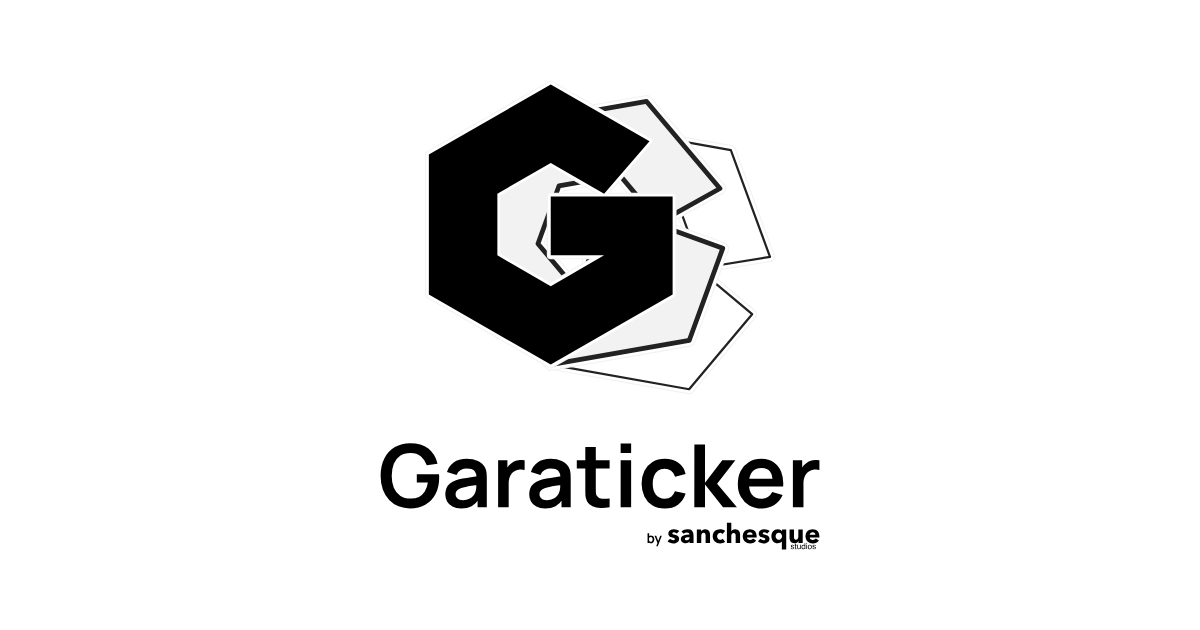
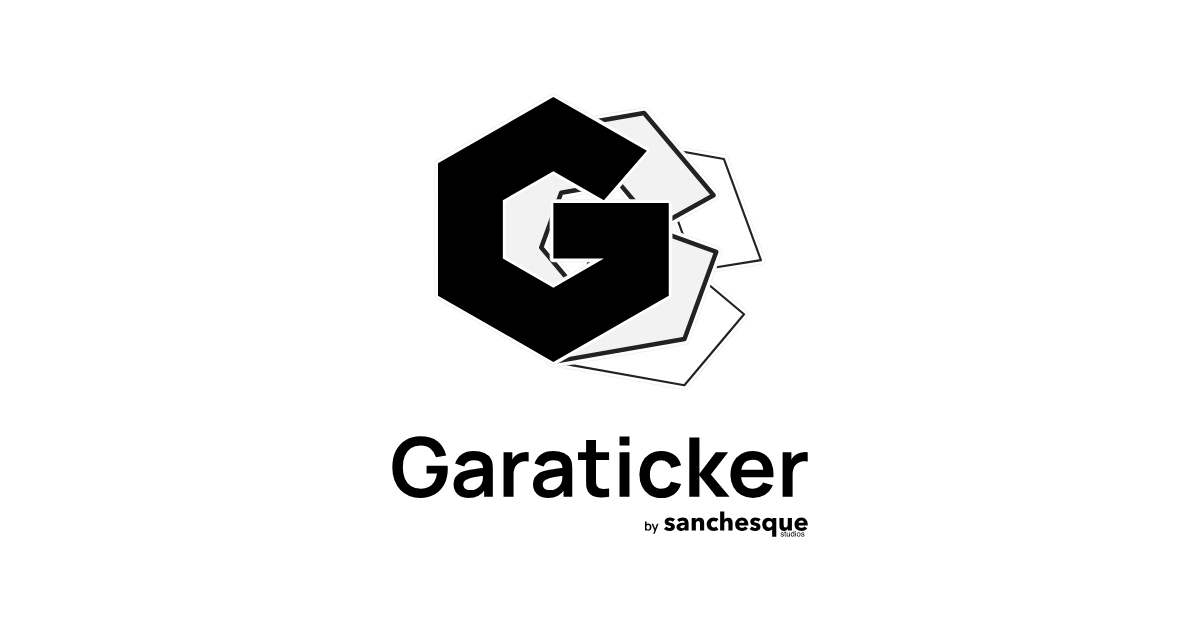
Website: publish pipeline, post-deploy live-check Action, brand-sync check, SEO tooling
Squash of 747066b (og-image sync), 462673f (publish.sh, post-deploy.yml,
C-15) and the SEO subsession docs + scripts/seo_weekly.sh, per Alex order
2026-11-24.

Generated by Mistral Vibe.

diff --git a/scripts/check_site.py b/scripts/check_site.py
@@ -1,8 +1,10 @@
 #!/usr/bin/env python3
 """Pre-push checks for the site: no em dashes, no broken internal links,
 every Spanish page has its /en/ twin, every page is in the sitemap, plus the
-SEO checks C-01..C-14 (errors) and W-01..W-04 (warnings) proposed in
-docs/seo/checklist.md (24-nov-2026, approved by Alex the same day).
+SEO checks C-01..C-15 (errors) and W-01..W-04 (warnings) proposed in
+docs/seo/checklist.md (24-nov-2026, approved by Alex the same day). C-15
+checks that the vendored brand copies are in sync with brand/ (skipped
+when brand/ is not next to the repo, e.g. in CI).
 
     python3 scripts/check_site.py [dir]     local checks (default: the repo;
                                             run on _site/ after build_site.sh)
@@ -343,6 +345,23 @@ for p in own_pages():
         last = target.rstrip("/").rsplit("/", 1)[-1]
         if target.endswith("index.html") or ("." not in last and not target.endswith("/")):
             err(f"C-14 {rel}: link to {target} (H-B1: use the folder with trailing slash)")
+
+# C-15 vendored brand copies (styles/brand, img/brand, fonts) in sync with
+# brand/ (decision 0004). Only when brand/ exists next to the repo; CI
+# checks out this repo alone and skips it. Running sync_brand.sh refreshes
+# the copies, so any diff against HEAD means they were stale.
+if SITE == REPO and (REPO.parent / "brand").is_dir():
+    try:
+        subprocess.run(["sh", str(REPO / "scripts" / "sync_brand.sh")],
+                       check=True, capture_output=True, timeout=60)
+        out = subprocess.run(["git", "-C", str(REPO), "status", "--porcelain", "--",
+                              "styles/brand", "img/brand", "fonts"],
+                             capture_output=True, text=True, timeout=10)
+        if out.returncode == 0 and out.stdout.strip():
+            err("C-15: styles/brand, img/brand or fonts/ differ from brand/ after "
+                "scripts/sync_brand.sh; commit the refreshed copies (decision 0004)")
+    except Exception as e:
+        err(f"C-15: could not verify the brand copies ({e})")
 
 # W-02 page weight: own HTML under 100 KB; images under 300 KB except og-image
 for p in own_pages():

diff --git a/HANDOFF.md b/HANDOFF.md
@@ -78,13 +78,22 @@
   de la ayuda 200, home con GitHub en `sameAs`, `lastmod` 2026-11-24
   en el sitemap y CSP real activa. Subsesión «Sanchesque.com · SEO»
   avisada con el hash `456ac08`.
+- 24-nov · Vibe, orden de Alex vía Gestión (local, sin push):
+  `scripts/publish.sh` (check_site del repo con C-15, build, check de
+  `_site`, push, espera del run «Push on master» del commit vía `gh`,
+  luego `check_site.py --live`; salida archivada en `logs/`, gitignored
+  y no publicada); Action `.github/workflows/post-deploy.yml` que corre
+  `check_site.py --live` tras «Push on master» en master (y a mano con
+  workflow_dispatch) y falla si L-01..L-05 no pasan; C-15 en
+  `check_site.py` (copias de brand al día con `brand/`, solo en local);
+  sección «Vigilancias con fecha» en `admin/web-backlog.md`.
 - 24-nov · Vibe, a petición de Marca (brand `55764e4`, planes P-1 a P-8
   aprobados): `sync_brand.sh` copia ya los avatares
   `logos/*/social/*-avatar-1080.png` a `img/brand/*/social/` y los PNG
   de email `tabaibi-horizontal-color-1000.png` (firma P-1 de tabaibi@)
   y `garaticker-horizontal-black-1000.png` (boletín P-6) a
-  `img/brand/email/`. Hecho en local; `check_site.py` ok (25 páginas).
-  Sin subir: falta el sí de Alex para publicar.
+  `img/brand/email/`. Publicado por Claude el 24-nov en `9e823ec`
+  (squash con el sí de Alex vía Gestión); comprobado en vivo.
 - 23-nov · Alex: revisión de indexación (exportes en `admin/seo/`).
   Google, 18 indexadas y 4 sin indexar (1 redirección, 3 rastreadas sin
   indexar); sitemaps y host bien. Bing, 2 indexadas; aún no ha vuelto a
@@ -103,9 +112,12 @@
   bueno de Garaticker), H-B1 (301 de `index.html`), H-B4 y H-B5, y GitHub
   en `sameAs`. H-B2 sin cambio (lleva `noindex`). Lo de la ayuda, en la
   Entrada de Garaticker. P-1 a P-4: Alex, más adelante (hacia el 7-dic).
-- [ ] **Commit local sin subir (24-nov):** sincronización de brand
-  (`sync_brand.sh` ampliado, 2 PNG de email y 2 avatares social en
-  `img/brand/`). Publicar solo con el sí de Alex en este chat.
+- [ ] **Commit local sin subir (25-nov):** la automatización de
+  publicación de esta orden (`scripts/publish.sh`, Action
+  `.github/workflows/post-deploy.yml`, C-15 en `check_site.py`,
+  `logs/` en `.gitignore`) más el re-sync de `img/brand/garaticker/og-image.png`
+  con brand `a85b3e2`. Publicar solo con el sí de Alex en este chat,
+  con `scripts/publish.sh`.
 - [ ] **Favicon con la G en `/garaticker/help/`** (petición de Marca,
   23-nov): la ayuda se genera en el repo de Garaticker y se copia con
   `sync_garaticker.sh help`. La sesión Garaticker investigó el 24-nov
@@ -145,6 +157,10 @@ Ninguna. La protección de dominio de IONOS no hace falta (Alex,
 
 - Nada se sube sin el sí de Alex en el chat de esta sesión; el de otra
   sesión no vale. Cada escritura en Cloudflare o IONOS, también.
+- Publicar: con el sí de Alex, `scripts/publish.sh` (cadena completa con
+  checks en vivo); `scripts/publish.sh --no-push` solo comprueba y
+  construye. La Action «Post-deploy live checks» repite L-01..L-05 tras
+  cada «Push on master».
 - Las copias de marca (`styles/brand/`, `img/brand/`, `fonts/`) no se
   editan: se cambian en `brand/` y se traen con `scripts/sync_brand.sh`.
   La ayuda de Garaticker se trae con `scripts/sync_garaticker.sh help`.

diff --git a/docs/seo/HANDOFF.md b/docs/seo/HANDOFF.md
@@ -7,7 +7,19 @@ Entrada de la madre: `admin/web-backlog.md`.
 
 - **Turno:** Vibe (desde 2026-11-24, orden de Alex vía Gestión)
 - **Archivos propios:** `audit-2026-11-24.md`, `checklist.md`,
-  `verification-2026-11-24.md`, este HANDOFF.
+  `verification-2026-11-24.md`, `monthly-report-template.md`,
+  `live-*.txt`, este HANDOFF.
+
+## Convenciones
+
+- **Fecha + hash:** cada auditoría y cada verificación llevan fecha
+  (AAAA-MM-DD) y, si hubo despliegue desde la anterior, el hash de
+  `master` que se publicó (p. ej. `456ac08`). Las salidas del rastreo
+  semanal son `live-AAAA-MM-DD.txt` (UTC).
+- Los informes mensuales se copian de `monthly-report-template.md` como
+  `monthly-AAAA-MM-DD.md`; los exports de consola van a `admin/seo/` con
+  la fecha delante del nombre.
+- Sin raya larga (U+2014) en ningún texto; `check_site.py` lo comprueba.
 
 ## Hecho
 
@@ -26,6 +38,14 @@ Entrada de la madre: `admin/web-backlog.md`.
 - 24-nov · PageSpeed Insights reintentado (API sin clave, móvil, las 5
   URL de H-M4): 429, cuota diaria del proyecto anónimo agotada. Anotado
   en la auditoría; H-M4 sigue abierto.
+- 25-nov · Por orden de Alex (24-nov, vía Gestión): plantilla de informe
+  mensual `monthly-report-template.md`; script de rastreo semanal
+  `scripts/seo_weekly.sh` (corre `check_site.py --live`, guarda
+  `docs/seo/live-AAAA-MM-DD.txt` y alerta con exit 2 si fallan L-03/L-04);
+  convención fecha+hash documentada aquí y en cada auditoría. Probado
+  `seo_weekly.sh` a mano: `live-2026-11-25.txt`, exit 0, L-01 a L-05
+  pasan. La programación semanal (cron del sistema o de la sesión) la
+  pone la madre; el script vale también a mano tras cada despliegue.
 
 ## Falta
 
@@ -38,12 +58,11 @@ Entrada de la madre: `admin/web-backlog.md`.
 - **H-M3, H-B3, H-B6, H-B7 y el origen de H-A1:** a Garaticker por su
   Entrada.
 - **D-07 (GIPHY) y `/social/`:** bloqueados en la madre (Fase 1).
-- El script nuevo aún no está subido: va con el siguiente push de la
-  madre (por ahora, local; `git status` lo muestra modificado).
+- `scripts/seo_weekly.sh` aún no está subido: va con el siguiente push
+  de la madre (local; `check_site.py` ya entró en `9e823ec`).
+- Programar el rastreo semanal (cron) es de la madre.
 
 ## Reglas
 
 - Nada se publica sin el sí de Alex en el chat de la sesión madre.
-- Sin raya larga (U+2014) en ningún texto; `check_site.py` lo comprueba.
-- Los informes y verificaciones llevan fecha y, tras un despliegue, el
-  hash (ver `verification-2026-11-24.md`).
+- Convenciones de fecha+hash, arriba.

diff --git a/docs/seo/monthly-report-template.md b/docs/seo/monthly-report-template.md
@@ -1,0 +1,46 @@
+# Plantilla de informe mensual SEO · sanchesque.com
+
+Subsesión «Sanchesque.com · SEO». Una copia por mes, con fecha:
+`docs/seo/monthly-AAAA-MM-DD.md`. Cada informe lleva **fecha y, si hubo
+despliegue desde el anterior, su hash** (convención en `HANDOFF.md`).
+
+## Cabecera
+
+- Informe: `monthly-AAAA-MM-DD.md` · período: AAAA-MM a AAAA-MM
+- Despliegues desde el informe anterior: hash(es) de `master`
+- Ejecutado por: <sesión> · fecha: AAAA-MM-DD
+
+## Exportes de consola (guárdalos en `admin/seo/`)
+
+Nombres sugeridos, con fecha delante: `AAAA-MM-DD-google-paginas.zip`,
+`AAAA-MM-DD-google-rastreo.zip`, `AAAA-MM-DD-bing-sitemaps.zip`.
+
+- **Search Console › Indexación › Páginas** («Por qué no se indexan las
+  páginas»): nº indexadas y nº sin indexar por motivo, con las URL de
+  cada motivo si cambian.
+- **Search Console › Ajustes › Estadísticas de rastreo**: % de
+  respuestas 404 («No se ha encontrado») y su evolución; si sube, abrir
+  el informe detallado y listar las URL (P-1).
+- **Bing Webmaster Tools › Sitemaps**: estado de las tres sitemaps y
+  URL descubiertas; si alguna no se ha releído, reenviarla desde ahí.
+
+## Preguntas del mes (de la auditoría vigente)
+
+- ¿Bajó el % de 404 de Googlebot? (H-A1: desplegado en `<hash>`;
+  objetivo 2-3 semanas después). ¿Siguen las `…/help/*/sitemap.xml` en
+  la lista de 404 de Search Console? (P-1)
+- ¿Las 4 páginas «sin indexar» siguen igual o cambiaron de motivo? (P-2)
+- ¿Hay avisos en Mejoras/datos estructurados o en Core Web Vitals? (P-4)
+- ¿PageSpeed/Lighthouse ya dio cifras? (H-M4)
+
+## Local y en vivo
+
+- `python3 scripts/check_site.py _site` tras el último build: nº de
+  páginas, errores, avisos.
+- `scripts/seo_weekly.sh` (salidas en `docs/seo/live-*.txt`): ¿alguna
+  alerta de L-03/L-04 durante el mes?
+
+## Acciones
+
+- Lo que se decide cambiar, con id del hallazgo (H-/P-/F-) y a quién
+  va (madre, Garaticker, Alex).

diff --git a/docs/seo/audit-2026-11-24.md b/docs/seo/audit-2026-11-24.md
@@ -1,6 +1,10 @@
 # Auditoría SEO de sanchesque.com · 24-nov-2026
 
-Subsesión «Sanchesque.com · SEO». Revisión de la web publicada
+Subsesión «Sanchesque.com · SEO». Convención (ver `HANDOFF.md`): fecha en
+el nombre y, si hubo despliegue, su hash; esta auditoría se hizo sobre
+`master` local sin publicar todavía.
+
+Revisión de la web publicada
 (https://sanchesque.com, es y en) y del código de `website/` en `master`
 (`f278f0b`, que aún no está subido: la ayuda en vivo es la de antes de
 ese commit). Solo lectura: no se ha cambiado nada.

diff --git a/docs/seo/verification-2026-11-24.md b/docs/seo/verification-2026-11-24.md
@@ -1,6 +1,9 @@
 # Verificación en vivo tras el despliegue del 24-nov-2026
 
-Subsesión «Sanchesque.com · SEO». Despliegue publicado el 2026-11-24
+Subsesión «Sanchesque.com · SEO». Convención fecha+hash (`HANDOFF.md`):
+esta verificación corresponde al despliegue `456ac08` del 2026-11-24.
+
+Despliegue publicado el 2026-11-24
 como squash `456ac0864ba2e464ef685b80b41c7a6de6d10db8` (fusión de
 `f278f0b`, `4d6c1b1`, `67287e8`, `a16f457` según la decisión 0003, con el
 sí de Alex vía Gestión). Workers Builds ya lo sirve en
